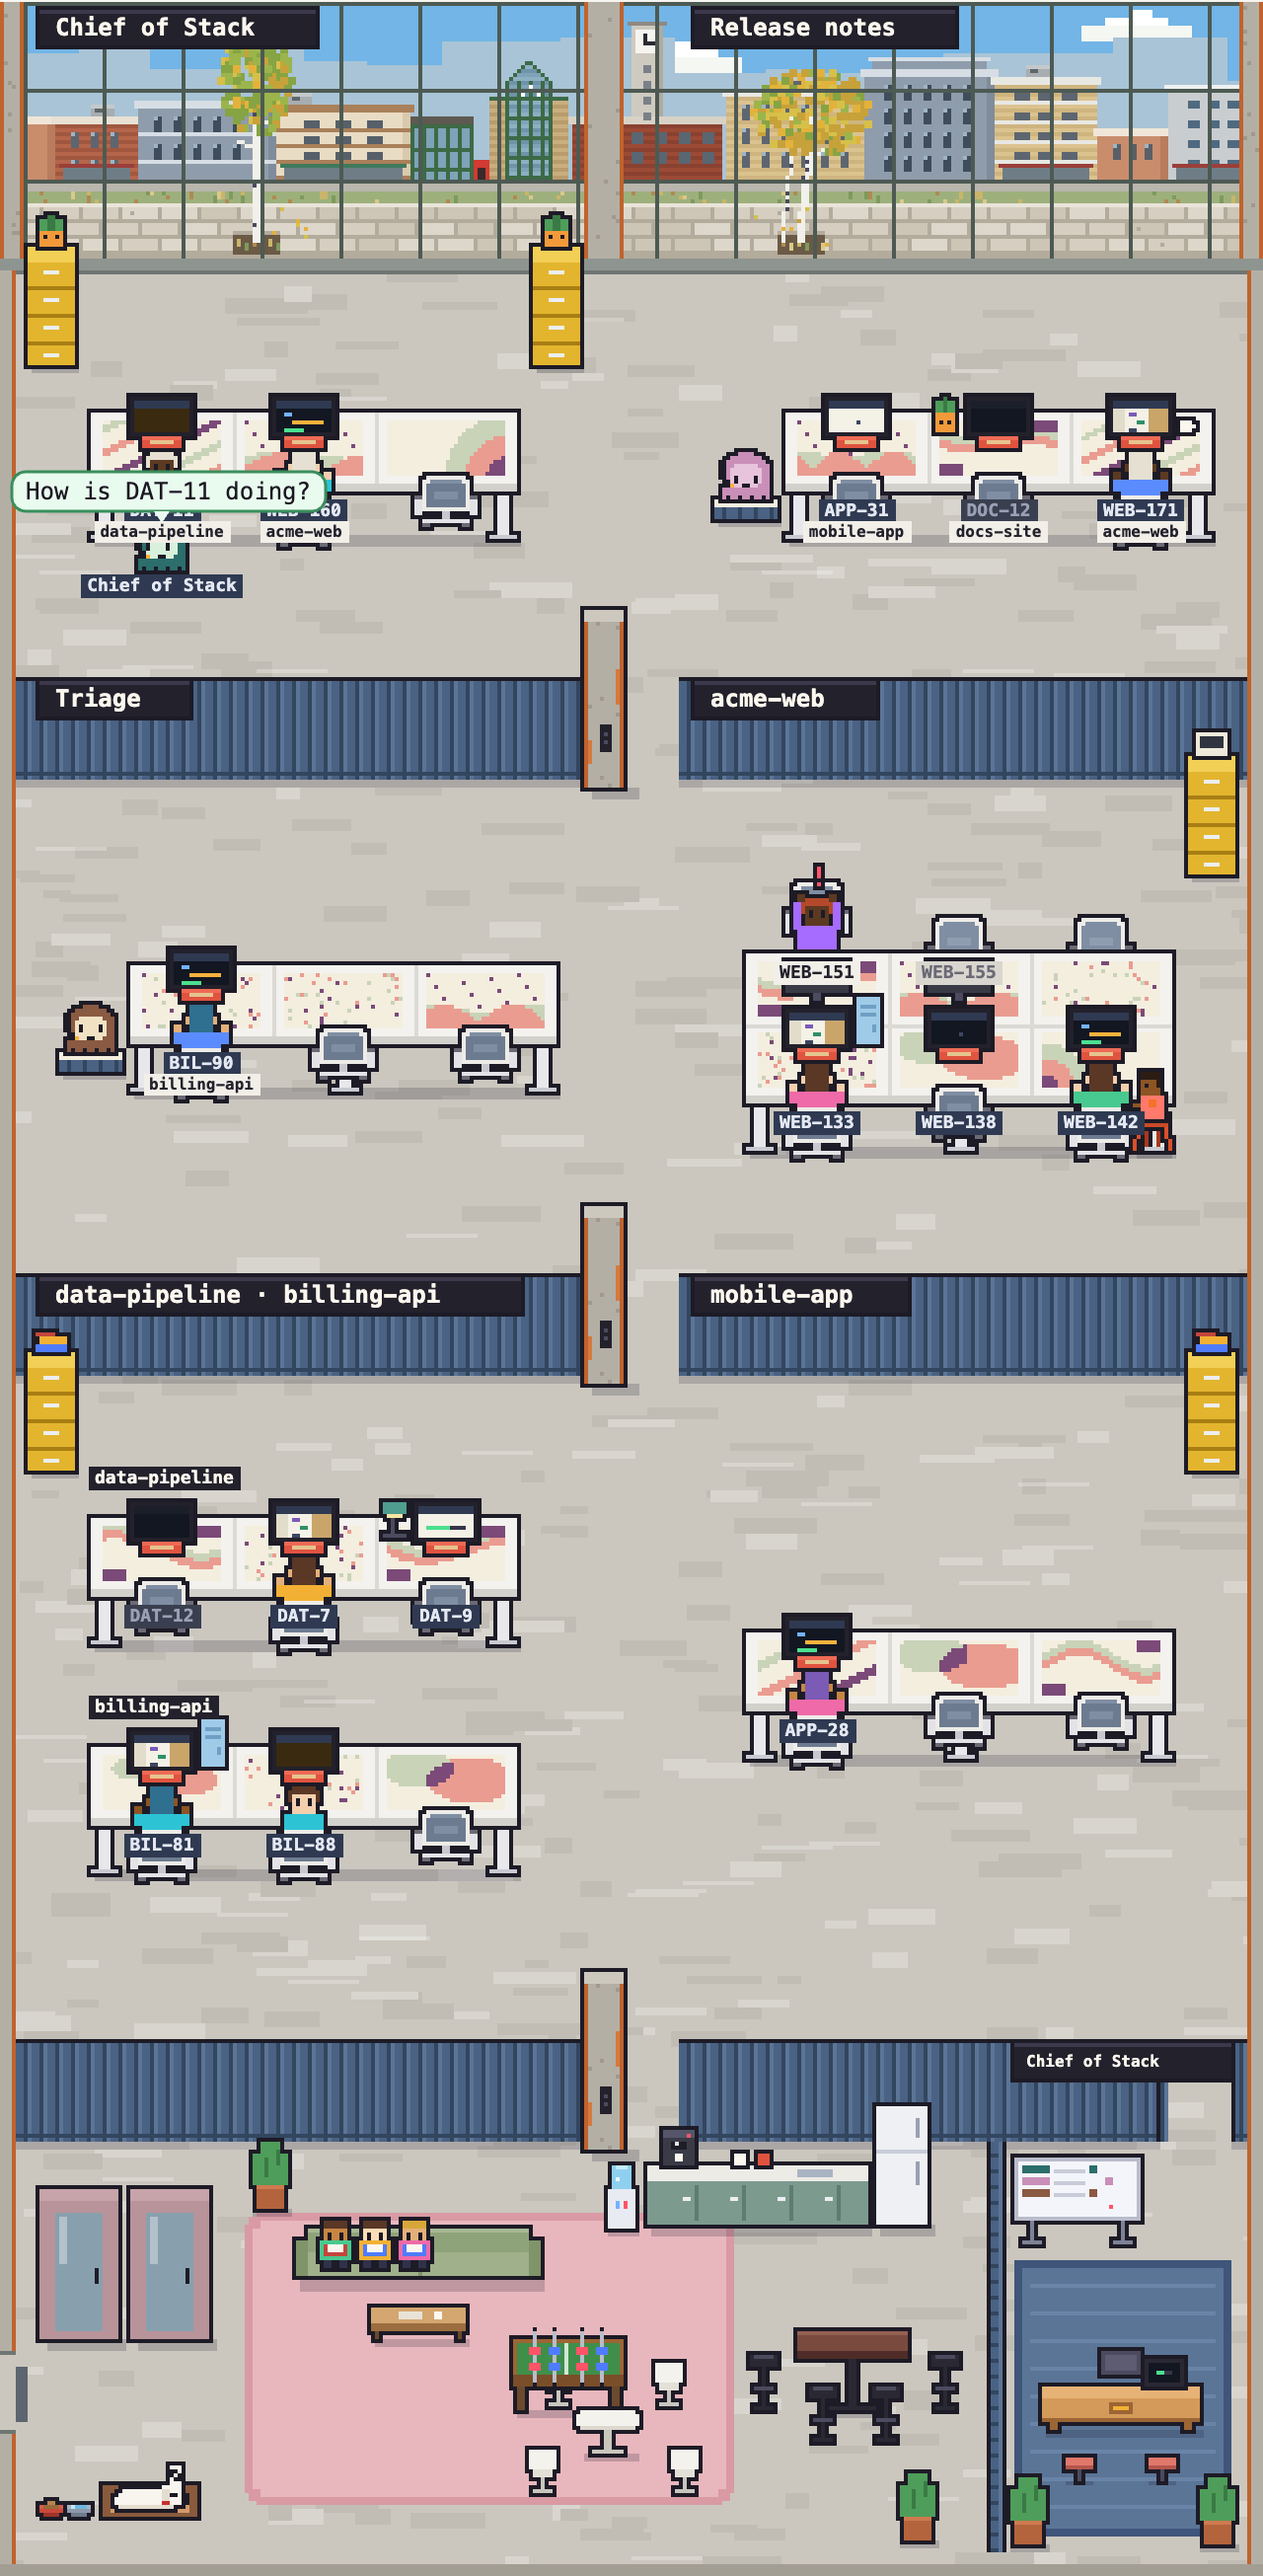
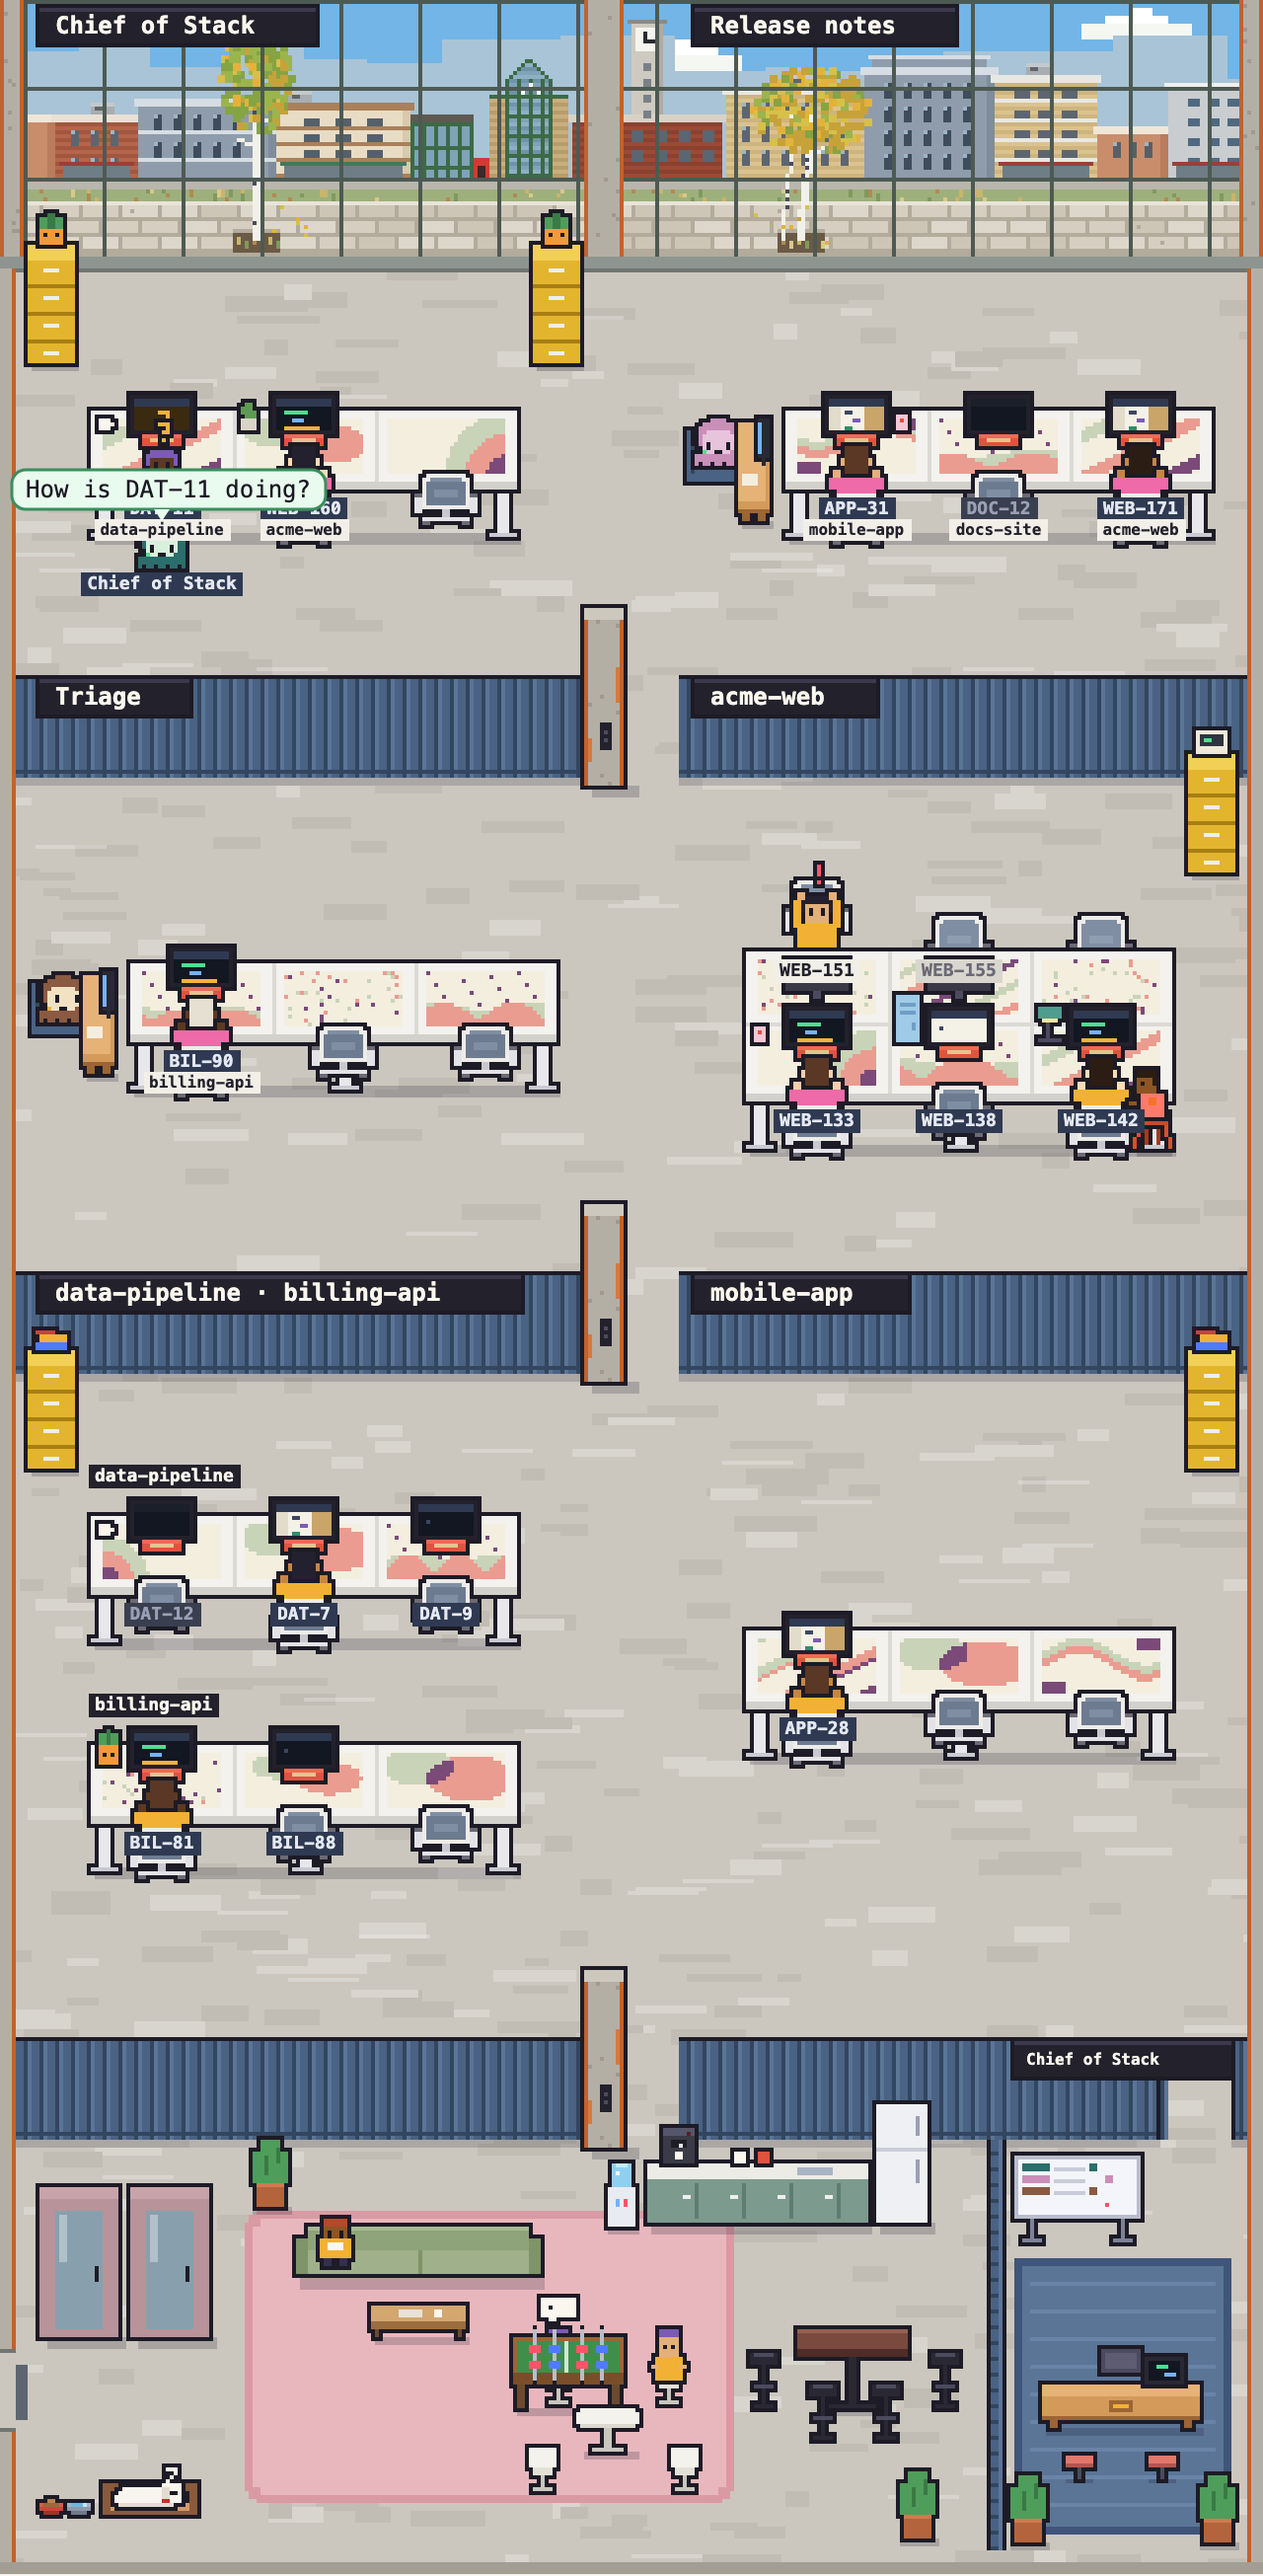
Version 0.2.14: bot rooms that follow Orca's sidebar, Hide sleeping, head desks
Bumps the version so the catalog picks up #30, and redraws the bots picture
(README and catalog) with the bots at their head desks. The head desk now
takes the podium's 20 px from its room again, its chair reaching into the
room's padding, so two bot rooms still sit side by side on a 640 px panel.

diff --git a/src/loft.js b/src/loft.js
@@ -29,9 +29,12 @@ const ROOM_MIN = ISL_W + ROOM_PAD * 2
 export const LOFT_MIN_W = ROOM_MIN + SPINE + OUTER * 2 + 4
 // A bot sits at the head of its island, at a desk of its own at the island's left end, turned
 // toward its staff: the bot on the left, its desk (HEAD_DESK_W across) between it and the island.
-const HEAD_W = 30
-const HEAD_DESK_X = 14
-const HEAD_DESK_W = 10
+// HEAD_W is the floor the head takes from its room's width, as the podium did, so two bot rooms
+// still sit side by side on a 640 px panel; the bot's chair reaches HEAD_IN into the room's padding.
+const HEAD_W = 20
+const HEAD_IN = 6
+const HEAD_DESK_X = 12
+const HEAD_DESK_W = 8
 const HEAD_SPAN = HEAD_DESK_X + HEAD_DESK_W // from the bot's x to the far edge of its desk
 
 /**
@@ -237,7 +240,7 @@ export function layoutLoft(snapshot, cssW, scale, helpers, targetH = null, bots 
           // the head sits at its desk at the island's left end, its front level with the chairs
           // a bot with no desks sits at a little desk of its own in the middle of its room
           if (team.head && !team.units.length) room.head = { bot: team.bot, x: room.x + Math.floor(colW / 2) - 7, y: cursor + 14 + 22, station: true }
-          else if (team.head) room.head = headAt(team.bot, ix - head + 2, cursor + 14 + 22, 20)
+          else if (team.head) room.head = headAt(team.bot, ix - head + 2 - HEAD_IN, cursor + 14 + 22, 20)
         } else {
           const perRow = perRowOf(team.head)
           for (let i = 0; i < team.islands; i++) {
@@ -247,7 +250,7 @@ export function layoutLoft(snapshot, cssW, scale, helpers, targetH = null, bots 
             const ix = room.x + Math.floor((colW - rowW - head) / 2) + head + (i % perRow) * (ISL_W + 8)
             isles.push({ x: ix, y: cursor + 22 + row * FULL_BLOCK, half: false, cells: Array(6).fill(null), team: null })
           }
-          if (team.head) room.head = headAt(team.bot, isles[0].x - head + 2, isles[0].y + ID + 22, ID * 2 + 2)
+          if (team.head) room.head = headAt(team.bot, isles[0].x - head + 2 - HEAD_IN, isles[0].y + ID + 22, ID * 2 + 2)
         }
         if (team.bot) for (const isl of isles) isl.bot = team.bot
         room.islands.push(...isles)

diff --git a/README.md b/README.md
@@ -87,7 +87,7 @@ on your `PATH`.
   for you, it waits at its way in with an amber `?`. Its own desks still form an island in a room
   named after it, with nobody at the head. When nothing goes on it stays, asleep at its desk.
 
-![Bots in the Loft: Chief of Stack, the coordinator, stops at a desk on its round to ask how DAT-11 is doing, Release notes and Triage stand at the heads of their islands, and the coordinator's room with its floor map stands at the right end of the hangout](docs/bots.png)
+![Bots in the Loft: Chief of Stack, the coordinator, stops at a desk on its round to ask how DAT-11 is doing, Release notes and Triage sit at desks of their own at the heads of their islands, and the coordinator's room with its floor map stands at the right end of the hangout](docs/bots.png)
 
 A status line along the top counts teams, bots, staff, busy agents and how many need you. A bot
 that waits for you counts among those who need you.
